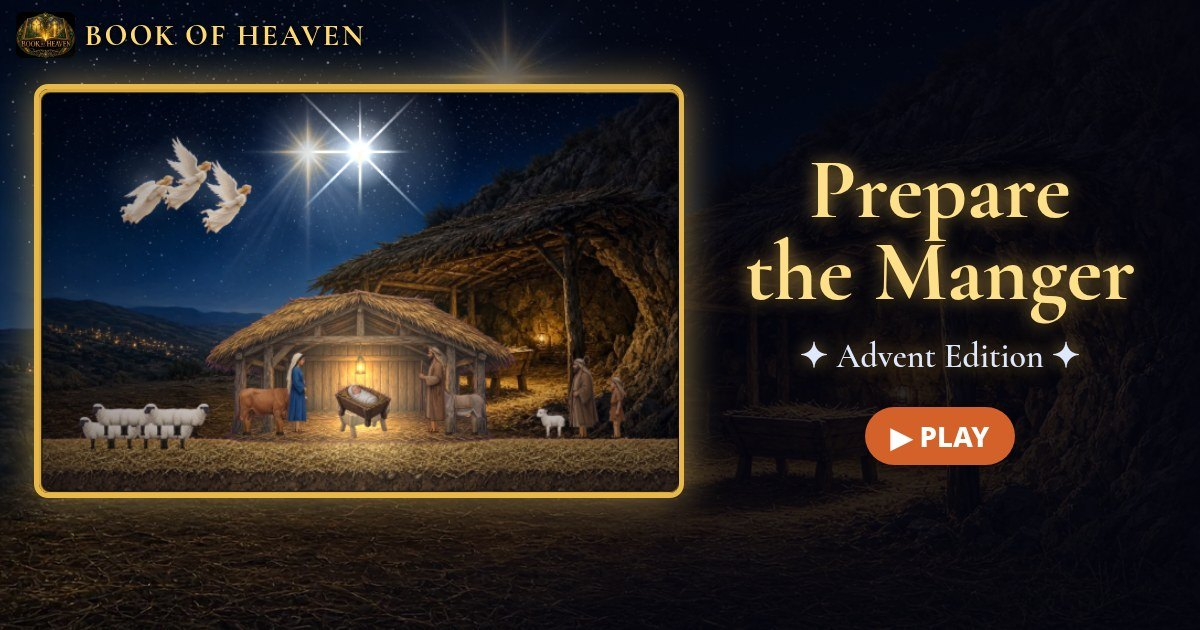
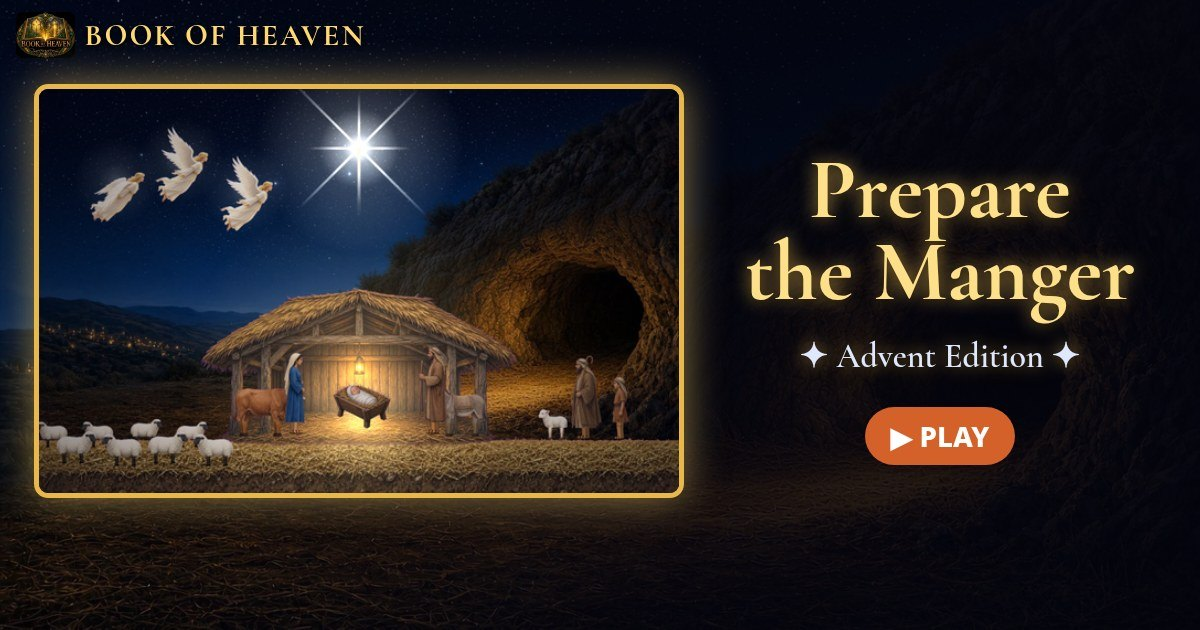
Sync with ploug76 05256a3: one manger/stable/star in the nativity art, spaced sheep + angels, companions stay on the ground, verse refs narrowed to the verse quoted; new share card; sw v46

Changed region(s): [[0.0308, 0.0302, 0.5858, 0.7841], [0.0308, 0.9048, 0.1233, 0.9651], [0.74, 0.6032, 0.7708, 0.6333]]

diff --git a/index.html b/index.html
@@ -299,20 +299,20 @@ const LEVELS=[
   outro:[{who:'angel',text:'The angel Gabriel came to Mary in Nazareth with good news: she would have a son, and his name would be JESUS.',ref:'Luke 1:26-31'},
          {who:'mary',text:'"Behold the handmaid of the Lord; be it unto me according to thy word."',ref:'Luke 1:38 (KJV)'}],
   piece:'mary',why:'Mary trusted God\'s word. God always keeps his promises.'},
- {n:2,name:"Joseph's Dream",ref:'Matthew 1:20-23 (KJV)',theme:'day',hero:'joseph',song:1,len:2700,
+ {n:2,name:"Joseph's Dream",ref:'Matthew 1:23 (KJV)',theme:'day',hero:'joseph',song:1,len:2700,
   verse:'Behold, a virgin shall be with child, and shall bring forth a son, and they shall call his name Emmanuel, which being interpreted is, God with us.',
   pre:[{who:'dream',text:'While Joseph slept, the angel of the Lord appeared to him in a dream: "Joseph, thou son of David, fear not to take unto thee Mary thy wife."',ref:'Matthew 1:20 (KJV)'}],
   how:'Joseph woke up and obeyed. Gather 6 wooden planks and his 6 carpentry tools, then press ACTION to get the house ready.',
   obj:[{id:'plank',label:'Planks',n:6},{id:'tool',label:'Tools found',n:6},{id:'ready',label:'House ready',n:3}],goalLabel:'the house',
   outro:[{who:'joseph',text:'Joseph did as the angel of the Lord told him, and took Mary as his wife.',ref:'Matthew 1:24'}],
   piece:'joseph',why:'Jesus is Emmanuel. God came to be with us.'},
- {n:3,name:'No Room',ref:'Luke 2:1-7 (KJV)',theme:'night',hero:'joseph',song:2,len:2900,
+ {n:3,name:'No Room',ref:'Luke 2:7 (KJV)',theme:'night',hero:'joseph',song:2,len:2900,
   verse:'And she brought forth her firstborn son, and wrapped him in swaddling clothes, and laid him in a manger; because there was no room for them in the inn.',
   how:'Bethlehem is full! Knock on the inn doors with ACTION. Pick up straw on the way, then fix up the stable: sweep, fill the manger and calm the animals.',
   obj:[{id:'inn',label:'Inns asked',n:3},{id:'straw',label:'Straw',n:9},{id:'sweep',label:'Swept',n:4},{id:'calm',label:'Animals calm',n:2},{id:'manger',label:'Manger filled',n:1}],goalLabel:null,
   outro:[{who:'stable',text:'There was no room in the inn, so Mary laid her baby in a manger. The King of heaven was born in a humble stable.',ref:'Luke 2:7'}],
   piece:'stable',why:'The King of all came humbly, to a manger, for everyone.'},
- {n:4,name:"Shepherds' Field",ref:'Luke 2:8-12 (KJV)',theme:'field',hero:'shepherd',song:0,len:2900,
+ {n:4,name:"Shepherds' Field",ref:'Luke 2:8 (KJV)',theme:'field',hero:'shepherd',song:0,len:2900,
   verse:'And there were in the same country shepherds abiding in the field, keeping watch over their flock by night.',
   how:'Eight sheep wandered off! Walk close to each one and it will follow you. Bring all 8 back to the fold on the left.',
   obj:[{id:'fold',label:'Sheep home',n:8}],goalLabel:null,
@@ -325,14 +325,14 @@ const LEVELS=[
   obj:[{id:'note',label:'Notes of light',n:16}],goalLabel:'the choir',
   outro:[{who:'choir',text:'"Glory to God in the highest, and on earth peace, good will toward men."',ref:'Luke 2:14 (KJV)'}],
   piece:'angels',why:'Heaven celebrates, because the Saviour has come.'},
- {n:6,name:'Go and See',ref:'Luke 2:15-20 (KJV)',theme:'night',hero:'shepherd',song:2,len:2900,
+ {n:6,name:'Go and See',ref:'Luke 2:15-16 (KJV)',theme:'night',hero:'shepherd',song:2,len:2900,
   verse:'Let us now go even unto Bethlehem, and see this thing which is come to pass, which the Lord hath made known unto us. And they came with haste.',
   how:'Hurry to Bethlehem! Press ACTION to light the 10 street lanterns on the way, then find the stable.',
   obj:[{id:'lantern',label:'Lanterns lit',n:10}],goalLabel:'the stable',
   outro:[{who:'scene',text:'They came with haste, and found Mary, and Joseph, and the babe lying in a manger.',ref:'Luke 2:16 (KJV)'},
-         {who:'shepherds',text:'"And the shepherds returned, glorifying and praising God for all the things that they had heard and seen."',ref:'Luke 2:20 (KJV)'}],
+         {who:'shepherds',text:'"And the shepherds returned, glorifying and praising God for all the things that they had heard and seen, as it was told unto them."',ref:'Luke 2:20 (KJV)'}],
   piece:'shepherds',why:'Good news is for sharing. The shepherds told everyone.'},
- {n:7,name:'The Star',ref:'Matthew 2:1-11 (KJV)',theme:'night',hero:'wise',song:0,len:1900,
+ {n:7,name:'The Star',ref:'Matthew 2:10 (KJV)',theme:'night',hero:'wise',song:0,len:1900,
   verse:'When they saw the star, they rejoiced with exceeding great joy.',
   how:'The Wise Men have come to Bethlehem. Gather the starlight on the rooftops until the star stops over the HOUSE. Then present your 3 gifts at the door.',
   obj:[{id:'spark',label:'Starlight',n:14},{id:'gift',label:'Gifts given',n:3}],goalLabel:'the house',
@@ -375,11 +375,11 @@ function build(n){const L=LEVELS[n-1],w=newWorld(L),r=mulberry(n*7919+11);
     [[485,'"Sorry, no room here!"'],[1085,'"We are full. No room!"'],[1670,'"No room in the inn... but you may use my stable."']].forEach(([x,say],i)=>spot(w,'inn',x,GY,{obj:'inn',seq:i,say}));
     [[880,GY-24],[1270,GY-26],[1660,GY-30],[1845,GY-28],[2120,GY]].forEach(([x,y])=>item(w,'straw',x,y,{obj:'straw'}));
     [2330,2390,2520,2580].forEach(x=>spot(w,'sweep',x,GY,{obj:'sweep',need:['inn']}));spot(w,'manger',2456,GY,{obj:'manger',need:['inn','straw','sweep']});
-    w.npcs.push({k:'ox',x:2360,y:GY,f:1,ph:0,x0:2300,x1:2440,sp:10,calm:false,obj:'calm'},{k:'goat',x:2560,y:GY,f:-1,ph:0,x0:2480,x1:2620,sp:12,calm:false,obj:'calm'});
+    w.npcs.push({k:'ox',x:2360,y:GY,f:1,ph:0,x0:2300,x1:2418,sp:10,calm:false,obj:'calm'},{k:'goat',x:2560,y:GY,f:-1,ph:0,x0:2480,x1:2620,sp:12,calm:false,obj:'calm'});
     w.stable={x:2460};[900,1530].forEach(x=>w.thorns.push({x}));w.followers.push({k:'donkeyMary',x:20,y:GY,f:1,ph:0,until:2250});bgTown(w,r,0,1);w.goal={x:-1}}
   if(n===4){[[520,30],[1130,34],[1720,30],[2330,32]].forEach(a=>gap(w,...a));
     [[360,22,40],[860,26,50],[945,48,36],[1450,24,46],[1530,44,40],[1980,26,44],[2060,50,40],[2580,28,50]].forEach(([x,h,wd])=>plat(w,x,GY-h,wd,'rock'));
-    w.fold={x0:12,x1:92};w.start={x:116,y:GY};
+    w.fold={x0:12,x1:140};w.start={x:164,y:GY};
     [[380,GY-22],[700,GY],[960,GY-48],[1300,GY],[1550,GY-44],[1880,GY],[2080,GY-50],[2700,GY]].forEach(([x,y],i)=>w.sheep.push({x,y,f:i%2?1:-1,ph:0,name:SHEEP_NAMES[i],st:'lost',x0:x,mv:false,bub:0,i}));
     [640,1250,1820,2460].forEach(x=>w.thorns.push({x}));w.goal={x:-1}}
   if(n===5){w.len=200;w.segs=[[0,200]];const top=GY-2300;let x=90,y=GY;for(let i=0;y>top+60;i++){y-=28+(i%3)*3;const wd=34+r()*16|0;x=clamp(x+(r()<0.5?-1:1)*(28+r()*28),8,192-wd);const p=plat(w,x,y,wd,'cloud');if(i%5===3){p.mv=1;p.x0=x;p.amp=18;p.ph=r()*6}
@@ -401,7 +401,7 @@ function build(n){const L=LEVELS[n-1],w=newWorld(L),r=mulberry(n*7919+11);
     [[300,26,40],[700,30,44],[785,52,36],[1150,26,40],[1225,46,36]].forEach(([x,h,wd])=>plat(w,x,GY-h,wd,'rock'));house(w,1700,60,30);house(w,1840,80,34);
     [[200,GY],[320,GY-26],[620,GY],[800,GY-52],[1170,GY-26],[1240,GY-46],[1660,GY],[1730,GY-30]].forEach(([x,y])=>spot(w,'candle',x,y,{obj:'candle'}));
     spot(w,'see',1460,GY,{obj:'see',need:['candle']});w.stable={x:1460};[440,900].forEach(x=>w.thorns.push({x}));
-    w.npcs.push({k:'ox',x:1430,y:GY,f:1,ph:0,x0:1420,x1:1436,sp:3},{k:'donkey',x:1495,y:GY,f:-1,ph:0,x0:1486,x1:1500,sp:3});w.goal={x:-1};bgTown(w,r,0,1)}
+    w.npcs.push({k:'ox',x:1412,y:GY,f:1,ph:0,x0:1406,x1:1416,sp:3},{k:'donkey',x:1506,y:GY,f:-1,ph:0,x0:1502,x1:1510,sp:3});/* beside Mary and Joseph, not in front of them */w.goal={x:-1};bgTown(w,r,0,1)}
   const EXT={1:[1700,'spot','lamp',5],2:[1700,'item','plank',6],3:[1500,'item','straw',4],4:[900,null,null,0],6:[1500,'spot','lantern',4],7:[2200,'item','spark',5],8:[2300,'spot','candle',4]}[n];
   if(EXT)extendLevel(w,r,L,...EXT);
   return w}
@@ -488,11 +488,13 @@ const PIECE_ORDER=['stable','mary','joseph','sheep','angels','shepherds','star',
 let SCENE=LS.get('scene',{pieces:{},sheep:[],decos:[]});
 function saveScene(){LS.set('scene',SCENE)}
 function drawPiece(id,x,y,o2={}){const ph=o2.ph||0,mv=!!o2.mv;
-  if(id==='stable'){drawStable(x,y+1,{w:118,lit:1});drawOx(x-34,y-1,1,ph,mv,{h:21});drawDonkey(x+36,y-1,-1,ph+1,mv,{h:22});if(!SCENE.pieces.baby||o2.noBaby)drawManger(x+1,y,true,false,20)}
+  if(id==='stable'){drawStable(x,y+1,{w:118,lit:1});drawOx(x-34,y-1,1,ph,mv,{h:21});drawDonkey(x+36,y-1,-1,ph+1,mv,{h:22});if(!o2.hasBaby)drawManger(x+1,y,true,false,20)}   // one manger only: the stable's empty manger is hidden once Baby Jesus (in his own manger) is in the scene
   else if(id==='mary')drawChar(x,y,x<120?1:-1,0,LOOKS.mary,{h:30});else if(id==='joseph')drawChar(x,y,x<120?1:-1,0,LOOKS.joseph,{h:32});
   else if(id==='baby')drawManger(x,y,true,true,21);
-  else if(id==='sheep'){const n=Math.max(1,(SCENE.sheep||[]).length||8);for(let i=0;i<n;i++)drawSheep(x-15+(i%4)*10+(i>3?5:0),y-(i>3?5:0),i%2?1:-1,ph+i,mv,{h:12})}
-  else if(id==='angels'){for(let i=0;i<3;i++)drawChar(x-15+i*15,y+Math.sin(t*2+i)*2-(i===1?7:0),x<120?1:-1,0,LOOKS.angel,{wph:i*1.7,fly:1,h:24})}
+  else if(id==='sheep'){const n=Math.max(1,(SCENE.sheep||[]).length||8);   // a small flock, spaced so no sheep stands on another: front row on the ground line, back row smaller + a little higher (further away), drawn first
+    const F=[[-21,5,1],[-4,6,-1],[13,5,1],[30,6,-1]],B=[[-13,-1,-1],[22,-1,1],[5,-2,1],[-30,-1,-1]],L=[];for(let i=0;i<n;i++){const q=i<4?F[i]:B[i-4];L.push([x+q[0],y+q[1],q[2],i<4?12:9.5,i])}
+    L.sort((a,b)=>a[1]-b[1]);for(const q of L)drawSheep(q[0],q[1],q[2],ph+q[4],mv,{h:q[3]})}
+  else if(id==='angels'){for(let i=0;i<3;i++)drawChar(x-24+i*24,y+Math.sin(t*2+i)*2-(i===1?9:0),x<120?1:-1,0,LOOKS.angel,{wph:i*1.7,fly:1,h:24})}   // spaced so the three angels don't overlap
   else if(id==='shepherds'){drawChar(x,y,x<120?1:-1,0,LOOKS.shepherd,{h:31});drawChar(x+13,y,x<120?1:-1,0,LOOKS.boy,{h:23});drawSheep(x-12,y,x<120?1:-1,ph,mv,{lamb:1,h:11})}
   else if(id==='star')drawStar(x,y,2.2)}
 function sceneBG(w,h){if(!paint('stable_night',0,0,w,h,0.45)){const gr=o.createLinearGradient(0,0,0,h);gr.addColorStop(0,'#070a26');gr.addColorStop(1,'#3a3468');o.fillStyle=gr;o.fillRect(0,0,w,h)}
@@ -501,7 +503,7 @@ function sceneBG(w,h){if(!paint('stable_night',0,0,w,h,0.45)){const gr=o.createL
 const SCS=4;
 function drawNativity(ctx,o2={}){withCtx(ctx,()=>{ctx.setTransform(SCS,0,0,SCS,0,0);ctx.imageSmoothingEnabled=true;ctx.imageSmoothingQuality='high';sceneBG(240,150);const P=o2.pieces||SCENE.pieces,only=o2.upto;
   const ids=Object.keys(P).filter(k=>PIECES[k]&&(!only||only.includes(k)));ids.sort((a,b)=>(a==='stable'?-1:b==='stable'?1:a==='star'?-1:b==='star'?1:P[a].y-P[b].y));
-  TINT={c:'#202a6a',a:0.16};for(const id of ids){if(o2.skip===id)continue;drawPiece(id,P[id].x,P[id].y,{ph:o2.ph,mv:o2.mv})}
+  const hasBaby=ids.includes('baby')||o2.skip==='baby';TINT={c:'#202a6a',a:0.16};for(const id of ids){if(o2.skip===id)continue;drawPiece(id,P[id].x,P[id].y,{ph:o2.ph,mv:o2.mv,hasBaby})}
   const ds=SCENE.decos||[];for(const d of ds){if(o2.decoUpto!==undefined&&d>=o2.decoUpto)continue;const x=8+d*(224/25),y=d%2?146:149;drawDeco(DECOS[d%DECOS.length],x,y)}
   if(o2.extra)o2.extra();TINT=null;
   const vg=ctx.createRadialGradient(120,80,60,120,80,160);vg.addColorStop(0,'rgba(0,0,0,0)');vg.addColorStop(1,'rgba(0,0,10,.45)');ctx.fillStyle=vg;ctx.fillRect(0,0,240,150)})}
@@ -529,7 +531,7 @@ function overSeg(x){return W.segs.some(s=>x>=s[0]-1&&x<=s[1]+1)}
 function gapAt(x){for(let i=0;i<W.segs.length-1;i++){const a=W.segs[i][1],b=W.segs[i+1][0];if(x>a-1&&x<b+1)return [a,b]}return null}
 function hurt(fx){if(H.inv>0||(window.__QA&&__QA.god))return;hearts--;H.inv=1.8;shake=4;SFX.hurt();float(H.x,H.y-30,'-1 ♥','#ff8aa0');H.kx=(H.x<fx?-1:1)*120;H.vy=-150;H.onG=false;if(hearts<=0)outOfHearts()}
 function fallReset(){if(H.inv<=0&&!(window.__QA&&__QA.god)&&W.type!=='climb'){hearts--;float(H.safe.x,H.safe.y-30,'-1 ♥','#ff8aa0')}   // no heart lost while blinking
-  H.x=H.safe.x;H.y=H.safe.y;H.vx=H.vy=H.kx=0;H.onG=true;H.inv=2;SFX.hurt();camFollow(true);ST.falls=(ST.falls||0)+1;if(hearts<=0)outOfHearts()}
+  H.x=H.safe.x;H.y=H.safe.y;H.vx=H.vy=H.kx=0;H.onG=true;H.inv=2;SFX.hurt();camFollow(true);resetTrail();ST.falls=(ST.falls||0)+1;if(hearts<=0)outOfHearts()}
 function outOfHearts(){state='retry'}
 function objToast(id){const L=Lv(),n=L.level;if(!objDone(id))return;const msgs={lamp:"All lamps lit! Go to Mary's door ▶",tool:'All tools found!',plank:'All planks gathered!',ready:'The house is ready! Go in ▶',inn:'The innkeeper offers his stable ▶',straw:'Straw gathered! Fill the manger.',
    sweep:'The stable is swept!',calm:'The animals are calm.',note:'The choir is waiting at the top! ▲',lantern:'Lanterns lit! Find the stable ▶',spark:'The star stopped over the house! ▶',gift:'Gifts given! Go in to the house ▶',candle:'Bethlehem is glowing! Go to the manger ▶'};
@@ -556,6 +558,13 @@ function findNear(){let best=null,bd=1e9;
   for(const s of W.spots){if(s.done)continue;const dx=Math.abs(s.x-H.x),dy=Math.abs(s.y-H.y);if(dx<18&&dy<26&&dx<bd){bd=dx;best=s}}
   for(const a of W.npcs){if(!a.obj||a.calm)continue;const dx=Math.abs(a.x-H.x);if(dx<22&&Math.abs(a.y-H.y)<20&&dx<bd){bd=dx;best={npc:a,x:a.x,y:a.y}}}
   return best}
+// companions (Mary's donkey, magi, camels, sheep) walk on the street: on solid ground they stand at GY, over a gap they leap in a smooth arc.
+// They never climb onto roofs/ledges and never float (Peter Nov 1: check the animation logic).
+function groundY(x){if(!W||W.type==='climb'||overSeg(x))return GY;const g=gapAt(x);if(!g)return GY;const [a,b]=g,u=clamp((x-a)/Math.max(1,b-a),0,1);return GY-Math.sin(Math.PI*u)*Math.max(14,(b-a)*0.7)}
+function resetTrail(){trail=[];for(let i=600;i>=0;i--)trail.push({x:H.x-i,y:GY});W.followers.forEach((fo,i)=>{if(fo.parked)return;const p=trailAt(followGap(i));fo.x=p.x;fo.y=groundY(fo.x)});
+  if(W.sheep)W.sheep.filter(q=>q.st==='follow').sort((a,b)=>a.fo-b.fo).forEach((q,k)=>{const p=trailAt((k+1)*17);q.x=p.x;q.y=groundY(q.x)})}
+function foldX(i){return W.fold.x0+9+i*16}   // 8 spots, one sheep-width apart
+function followGap(i){return W.followers.slice(0,i+1).reduce((a,q)=>a+(q.k==='magus'?17:q.k==='camel'?30:24)*(q.k==='donkeyMary'?1:clamp(VW/280,0.52,1)),0)}
 function trailAt(back){const i=Math.max(0,trail.length-1-Math.round(back));return trail[i]}
 // ---------- main update
 function update(dt){t+=dt;if(toastT>0)toastT-=dt;if(shake>0)shake=Math.max(0,shake-dt*20);updParts(dt);
@@ -585,8 +594,8 @@ function update(dt){t+=dt;if(toastT>0)toastT-=dt;if(shake>0)shake=Math.max(0,sha
   // thorns
   for(const th of W.thorns)if(Math.abs(H.x-th.x)<7&&H.y>GY-9&&H.y<=GY+2)hurt(th.x);
   if(state!=='play')return;
-  // trail for followers
-  const lt=trail[trail.length-1],d=Math.hypot(H.x-lt.x,H.y-lt.y);if(d>48){const dx=H.x-lt.x,dy=H.y-lt.y;trail=trail.map(q=>({x:q.x+dx,y:Math.min(GY,q.y+dy)}));W.followers.forEach(fo=>{if(!fo.parked){fo.x+=dx;fo.y=Math.min(GY,fo.y+dy)}})}else if(d>=1){const n=Math.floor(d);for(let i=1;i<=n;i++)trail.push({x:lerp(lt.x,H.x,i/n),y:lerp(lt.y,H.y,i/n)});if(trail.length>900)trail.splice(0,trail.length-900)}
+  // trail for followers (horizontal distance only, so jumping in place doesn't pull companions onto the hero)
+  const lt=trail[trail.length-1],d=Math.abs(H.x-lt.x);if(d>48){resetTrail()}else if(d>=1){const n=Math.floor(d);for(let i=1;i<=n;i++)trail.push({x:lerp(lt.x,H.x,i/n),y:GY});if(trail.length>900)trail.splice(0,trail.length-900)}
   // items
   for(const k of W.items){if(k.got)continue;if(Math.abs(k.x-H.x)<10&&Math.abs(k.y-(H.y-8))<16){k.got=true;ST[k.obj]=(ST[k.obj]||0)+1;SFX.pick();part(k.x,k.y-4,12,['#ffe08a','#fff'],{sp:30,add:true});
     if(level===2)readyHint();float(k.x,k.y-16,k.k==='tool'?k.tool[0].toUpperCase()+k.tool.slice(1)+'!':k.k==='straw'?'Straw!':k.k==='plank'?'Plank!':k.k==='note'?'♪':'✦');objToast(k.obj)}}
@@ -596,12 +605,12 @@ function update(dt){t+=dt;if(toastT>0)toastT-=dt;if(shake>0)shake=Math.max(0,sha
     for(const s of W.sheep){s.ph+=dt*10;const ox=s.x;
       if(s.st==='lost'){s.wt=(s.wt||0)-dt;if(s.wt<=0){s.wt=rnd(1.5,3.5);s.walk=Math.random()<0.55;if(s.walk)s.f=s.x>s.x0+14?-1:s.x<s.x0-14?1:pick([1,-1])}if(s.walk)s.x+=s.f*7*dt;
         if(Math.abs(H.x-s.x)<20&&Math.abs(H.y-s.y)<16){s.st='follow';s.fo=performance.now()+Math.random();SFX.bleat();float(s.x,s.y-20,s.name+' follows you!','#ffffff');bubble(s,'Baa!',1.2)}}
-      else if(s.st==='follow'){const k=fol.indexOf(s);if(home){const tx=W.fold.x0+10+((ST.fold+k)%8)*8;s.x=lerp(s.x,tx,Math.min(1,dt*2.5));s.y=lerp(s.y,GY,Math.min(1,dt*6));if(s.x<W.fold.x1-4){s.st='home';ST.fold++;SFX.bleat();float(s.x,s.y-20,s.name+' is home!','#bdf3ff');objToast('fold')}}
-        else{const p=trailAt((k+1)*15);s.x=lerp(s.x,p.x,Math.min(1,dt*7));s.y=lerp(s.y,p.y,Math.min(1,dt*9))}}
-      else{s.wt=(s.wt||0)-dt;if(s.wt<=0){s.wt=rnd(1.5,4);s.walk=Math.random()<0.5;s.f=pick([1,-1])}if(s.walk){s.x+=s.f*5*dt;if(s.x<W.fold.x0+5){s.x=W.fold.x0+5;s.f=1}if(s.x>W.fold.x1-6){s.x=W.fold.x1-6;s.f=-1}}s.y=GY}
-      const dx=s.x-ox;s.mv=Math.abs(dx)>0.02;if(Math.abs(dx)>0.05)s.f=dx>0?1:-1}}
+      else if(s.st==='follow'){const k=fol.indexOf(s);if(home){const tx=foldX(Math.min(7,ST.fold+k));s.x=lerp(s.x,tx,Math.min(1,dt*2.5));s.y=groundY(s.x);if(s.x<W.fold.x1-4){s.st='home';const used=W.sheep.filter(q=>q.st==='home'&&q!==s).map(q=>q.slot);let bs=0,bd=1e9;for(let j2=0;j2<8;j2++)if(!used.includes(j2)&&Math.abs(foldX(j2)-s.x)<bd){bd=Math.abs(foldX(j2)-s.x);bs=j2}s.slot=bs;ST.fold++;SFX.bleat();float(s.x,s.y-20,s.name+' is home!','#bdf3ff');objToast('fold')}}
+        else{const p=trailAt((k+1)*17);s.x=lerp(s.x,p.x,Math.min(1,dt*7));s.y=groundY(s.x)}}
+      else{s.x=lerp(s.x,foldX(s.slot||0),Math.min(1,dt*2.5));s.y=GY;s.wt=(s.wt||0)-dt;if(s.wt<=0){s.wt=rnd(2,5);s.face=pick([1,-1])}}   // home: each sheep keeps its own spot in the fold and just turns now and then (no walking through each other)
+      const dx=s.x-ox;s.mv=Math.abs(dx)>0.02;if(Math.abs(dx)>0.05)s.f=dx>0?1:-1;else if(s.st==='home'&&s.face)s.f=s.face}}
   // followers (Mary on the donkey, the camels)
-  W.followers.forEach((fo,i)=>{const ox=fo.x;if(fo.until&&H.x>fo.until)fo.parked=true;if(!fo.parked){const p=trailAt(W.followers.slice(0,i+1).reduce((a,q)=>a+(q.k==='magus'?17:q.k==='camel'?30:24)*(q.k==='donkeyMary'?1:clamp(VW/280,0.52,1)),0));fo.x=lerp(fo.x,p.x,Math.min(1,dt*7));fo.y=lerp(fo.y,Math.min(GY,p.y),Math.min(1,dt*9))}
+  W.followers.forEach((fo,i)=>{const ox=fo.x;if(fo.until&&H.x>fo.until)fo.parked=true;if(!fo.parked){const p=trailAt(followGap(i));fo.x=lerp(fo.x,p.x,Math.min(1,dt*7));fo.y=groundY(fo.x)}
     const dx=fo.x-ox;fo.mv=Math.abs(dx)>0.02;if(Math.abs(dx)>0.05)fo.f=dx>0?1:-1;if(fo.mv)fo.ph+=dt*9});
   // npcs walk (animals and villagers)
   for(const a of W.npcs){const ox=a.x;if(!a.calm){a.wt=(a.wt||0)-dt;if(a.wt<=0){a.wt=rnd(1,3);a.walk=Math.random()<0.7}if(a.walk){a.x+=a.f*a.sp*dt;if(a.x>a.x1){a.x=a.x1;a.f=-1}if(a.x<a.x0){a.x=a.x0;a.f=1}}}else a.f=H.x<a.x?-1:1;
@@ -813,7 +822,7 @@ function sceneArea(top,bottomPad){const land=LY.land;const aw=CW-24-SAFE.l-SAFE.
 function drawDecorate(){const land=LY.land,id=DEC.id,P=PIECES[id];menuBG();
   const head=wrap('You earned '+P.name+'! Drag it anywhere in your nativity, then tap Place it.',Math.min(CW-30,700),18);head.forEach((l,i)=>txt(l,CW/2,SAFE.t+22+i*24,18,'#ffe14a'));
   const top=SAFE.t+22+head.length*24;const R=sceneArea(top,70);DEC.rect=R;
-  drawNativity(sceneCtx,{ph:t*3,skip:id,extra:()=>{glow(DEC.x,DEC.y-8,26+4*Math.sin(t*4),'255,250,200',0.5);drawPiece(id,DEC.x,DEC.y,{ph:t*3,mv:false})}});
+  drawNativity(sceneCtx,{ph:t*3,skip:id,extra:()=>{glow(DEC.x,DEC.y-8,26+4*Math.sin(t*4),'255,250,200',0.5);drawPiece(id,DEC.x,DEC.y,{ph:t*3,mv:false,hasBaby:!!SCENE.pieces.baby})}});
   blit(sceneCv,R.x,R.y,R.w,R.h);frame2(R);
   const bw=Math.min(300,CW-40);button('place',(CW-bw)/2,CH-SAFE.b-60,bw,52,'Place it ✓','#2f9f4f',()=>{SCENE.pieces[id]={x:Math.round(DEC.x),y:Math.round(DEC.y)};saveScene();SFX.place();state='why'},22);menuBtns[menuBtns.length-1].primary=1}
 function drawWhy(){const L=Lv(),land=LY.land;menuBG();drawNativity(sceneCtx,{ph:t*3});const R=sceneArea(SAFE.t+12,land?190:300);blit(sceneCv,R.x,R.y,R.w,R.h);frame2(R);
@@ -837,7 +846,7 @@ function drawReplay(){g.fillStyle='#000';g.fillRect(0,0,CW,CH);const ids=PIECE_O
   const upto=ids.filter((k,i)=>T>0.8+i*(6.4/n));const R=sceneArea(SAFE.t+12,80);
   drawNativity(sceneCtx,{ph:t*3,mv:true,upto,decoUpto:T>7.4?99:-1,extra:()=>{const i=upto.length-1;if(i>=0){const p=SCENE.pieces[ids[i]],k=T-(0.8+i*(6.4/n));if(k<0.8)glow(p.x,p.y-10,40*(1-k),'255,250,220',0.8)}}});
   const fade=clamp(T/0.8,0,1);g.globalAlpha=fade;blit(sceneCv,R.x,R.y,R.w,R.h);g.globalAlpha=1;
-  if(T>8.2){g.globalAlpha=clamp((T-8.2)/0.6,0,1);txt('My Nativity',CW/2,R.y+R.h*0.18,fitSize('My Nativity',R.w,40),'#ffe14a','center',{lw:6,st:'#3a2208'});txt('"Unto you is born this day... a Saviour" Luke 2:11',CW/2,R.y+R.h*0.18+40,fitSize('"Unto you is born this day... a Saviour" Luke 2:11',R.w-20,18),'#fff');g.globalAlpha=1}
+  if(T>8.2){g.globalAlpha=clamp((T-8.2)/0.6,0,1);txt('My Nativity',CW/2,R.y+R.h*0.18,fitSize('My Nativity',R.w,40),'#ffe14a','center',{lw:6,st:'#3a2208'});txt('"Unto you is born this day... a Saviour" Luke 2:11 (KJV)',CW/2,R.y+R.h*0.18+40,fitSize('"Unto you is born this day... a Saviour" Luke 2:11 (KJV)',R.w-20,18),'#fff');g.globalAlpha=1}
   g.fillStyle='#ffcf4a';g.fillRect(R.x,R.y+R.h+8,R.w*clamp(T/10,0,1),4);
   button('skipr',CW-SAFE.r-120,CH-SAFE.b-58,108,48,'Skip ⏭','#4a4a6a',()=>{state='scene'},18);if(T>=10)state='scene'}
 function adventDay(){const now=window.__QA&&__QA.date?new Date(__QA.date):new Date();let Y=now.getFullYear();if(now.getMonth()<6)Y--;for(let i=25;i>=0;i--){if(now>=new Date(Y,10,29+i))return i+1}return 0}
@@ -987,7 +996,7 @@ if(window.__QA){
     if(A.tgtT>14&&tg.o&&typeof tg.o==='object'){H.x=tg.x;H.y=tg.y;H.vy=0;A.assists++;A.tgtT=0}}
 }
 
-window.__VERSION=37;
+window.__VERSION=45;
 </script><!--lockboh--><style>#smpLock{position:fixed;inset:0;z-index:75;display:none;align-items:center;justify-content:center;background:rgba(8,6,24,.86);padding:calc(12px + env(safe-area-inset-top)) calc(12px + env(safe-area-inset-right)) calc(12px + env(safe-area-inset-bottom)) calc(12px + env(safe-area-inset-left));box-sizing:border-box;touch-action:manipulation}
 #smpLock.on{display:flex}#smpLock .c{box-sizing:border-box;width:min(340px,100%);max-height:100%;overflow:auto;background:#1b1340;color:#fff;border:3px solid #fff;border-radius:16px;box-shadow:0 0 0 4px #ffcc2e,0 10px 30px rgba(0,0,0,.6);padding:16px 14px 14px;text-align:center;font:16px/1.35 system-ui,-apple-system,Segoe UI,sans-serif}
 #smpLock h2{margin:0 0 6px;font-size:23px;color:#ffe14a}#smpLock p{margin:6px 0 10px;font-size:16px}#smpLock .k{font-size:40px;line-height:1}

diff --git a/sw.js b/sw.js
@@ -1,4 +1,4 @@
-const P='prepare-the-manger-',V=P+'v38',FILES=['./','index.html','manifest.json','icon-192.png','icon-512.png','art/spr/angel_down.webp','art/spr/angel_stand.webp','art/spr/angel_stand_body.webp','art/spr/angel_up.webp','art/spr/angel_walk.webp','art/spr/b_house.webp','art/spr/b_inn.webp','art/spr/boy_stand.webp','art/spr/boy_stand_body.webp','art/spr/boy_walk.webp','art/spr/camel1.webp','art/spr/camel1_body.webp','art/spr/camel1_leg0s.webp','art/spr/camel1_leg0t.webp','art/spr/camel1_leg1s.webp','art/spr/camel1_leg1t.webp','art/spr/camel1_leg2s.webp','art/spr/camel1_leg2t.webp','art/spr/camel1_leg3s.webp','art/spr/camel1_leg3t.webp','art/spr/camel1_rig.webp','art/spr/camel2.webp','art/spr/camel2_body.webp','art/spr/camel2_leg0s.webp','art/spr/camel2_leg0t.webp','art/spr/camel2_leg1s.webp','art/spr/camel2_leg1t.webp','art/spr/camel2_leg2s.webp','art/spr/camel2_leg2t.webp','art/spr/camel2_leg3s.webp','art/spr/camel2_leg3t.webp','art/spr/camel2_rig.webp','art/spr/candle.webp','art/spr/candle_off.webp','art/spr/chest.webp','art/spr/chisel.webp','art/spr/donkey.webp','art/spr/donkey_body.webp','art/spr/dove0.webp','art/spr/dove1.webp','art/spr/dove2.webp','art/spr/fold.webp','art/spr/frank.webp','art/spr/goat_body.webp','art/spr/h_door.webp','art/spr/h_humble.webp','art/spr/h_inn.webp','art/spr/h_win.webp','art/spr/hammer.webp','art/spr/joseph_stand.webp','art/spr/joseph_stand2.webp','art/spr/joseph_stand_body.webp','art/spr/joseph_walk.webp','art/spr/lamb.webp','art/spr/lamb_body.webp','art/spr/lamp.webp','art/spr/lamp_off.webp','art/spr/lantern.webp','art/spr/lantern_off.webp','art/spr/magus1.webp','art/spr/magus1_body.webp','art/spr/magus2.webp','art/spr/magus2_body.webp','art/spr/magus3.webp','art/spr/magus3_body.webp','art/spr/mallet.webp','art/spr/manger.webp','art/spr/manger_baby.webp','art/spr/mary_ride.webp','art/spr/mary_ride_body.webp','art/spr/mary_stand.webp','art/spr/mary_stand_body.webp','art/spr/mary_walk.webp','art/spr/myrrh.webp','art/spr/ox.webp','art/spr/ox_body.webp','art/spr/p_awning.webp','art/spr/p_cloud.webp','art/spr/p_lumber.webp','art/spr/p_rock.webp','art/spr/p_stone.webp','art/spr/plane.webp','art/spr/plank.webp','art/spr/saw.webp','art/spr/sheep.webp','art/spr/sheep_body.webp','art/spr/shep_stand.webp','art/spr/shep_stand_body.webp','art/spr/shep_walk.webp','art/spr/square.webp','art/spr/stable.webp','art/spr/stall.webp','art/spr/straw.webp','art/spr/thorn.webp','art/bg/bethlehem_star.webp','art/bg/g_cobble.webp','art/bg/g_dirt.webp','art/bg/g_grass.webp','art/bg/g_straw.webp','art/bg/g_water.webp','art/bg/hills_star.webp','art/bg/inn_street.webp','art/bg/nazareth_day.webp','art/bg/nazareth_dusk.webp','art/bg/nazareth_morning.webp','art/bg/road.webp','art/bg/sky_angels.webp','art/bg/stable_night.webp','art/bg/story_dream.webp'];
+const P='prepare-the-manger-',V=P+'v46',FILES=['./','index.html','manifest.json','icon-192.png','icon-512.png','art/spr/angel_down.webp','art/spr/angel_stand.webp','art/spr/angel_stand_body.webp','art/spr/angel_up.webp','art/spr/angel_walk.webp','art/spr/b_house.webp','art/spr/b_inn.webp','art/spr/boy_stand.webp','art/spr/boy_stand_body.webp','art/spr/boy_walk.webp','art/spr/camel1.webp','art/spr/camel1_body.webp','art/spr/camel1_leg0s.webp','art/spr/camel1_leg0t.webp','art/spr/camel1_leg1s.webp','art/spr/camel1_leg1t.webp','art/spr/camel1_leg2s.webp','art/spr/camel1_leg2t.webp','art/spr/camel1_leg3s.webp','art/spr/camel1_leg3t.webp','art/spr/camel1_rig.webp','art/spr/camel2.webp','art/spr/camel2_body.webp','art/spr/camel2_leg0s.webp','art/spr/camel2_leg0t.webp','art/spr/camel2_leg1s.webp','art/spr/camel2_leg1t.webp','art/spr/camel2_leg2s.webp','art/spr/camel2_leg2t.webp','art/spr/camel2_leg3s.webp','art/spr/camel2_leg3t.webp','art/spr/camel2_rig.webp','art/spr/candle.webp','art/spr/candle_off.webp','art/spr/chest.webp','art/spr/chisel.webp','art/spr/donkey.webp','art/spr/donkey_body.webp','art/spr/dove0.webp','art/spr/dove1.webp','art/spr/dove2.webp','art/spr/fold.webp','art/spr/frank.webp','art/spr/goat_body.webp','art/spr/h_door.webp','art/spr/h_humble.webp','art/spr/h_inn.webp','art/spr/h_win.webp','art/spr/hammer.webp','art/spr/joseph_stand.webp','art/spr/joseph_stand2.webp','art/spr/joseph_stand_body.webp','art/spr/joseph_walk.webp','art/spr/lamb.webp','art/spr/lamb_body.webp','art/spr/lamp.webp','art/spr/lamp_off.webp','art/spr/lantern.webp','art/spr/lantern_off.webp','art/spr/magus1.webp','art/spr/magus1_body.webp','art/spr/magus2.webp','art/spr/magus2_body.webp','art/spr/magus3.webp','art/spr/magus3_body.webp','art/spr/mallet.webp','art/spr/manger.webp','art/spr/manger_baby.webp','art/spr/mary_ride.webp','art/spr/mary_ride_body.webp','art/spr/mary_stand.webp','art/spr/mary_stand_body.webp','art/spr/mary_walk.webp','art/spr/myrrh.webp','art/spr/ox.webp','art/spr/ox_body.webp','art/spr/p_awning.webp','art/spr/p_cloud.webp','art/spr/p_lumber.webp','art/spr/p_rock.webp','art/spr/p_stone.webp','art/spr/plane.webp','art/spr/plank.webp','art/spr/saw.webp','art/spr/sheep.webp','art/spr/sheep_body.webp','art/spr/shep_stand.webp','art/spr/shep_stand_body.webp','art/spr/shep_walk.webp','art/spr/square.webp','art/spr/stable.webp','art/spr/stall.webp','art/spr/straw.webp','art/spr/thorn.webp','art/bg/bethlehem_star.webp','art/bg/g_cobble.webp','art/bg/g_dirt.webp','art/bg/g_grass.webp','art/bg/g_straw.webp','art/bg/g_water.webp','art/bg/hills_star.webp','art/bg/inn_street.webp','art/bg/nazareth_day.webp','art/bg/nazareth_dusk.webp','art/bg/nazareth_morning.webp','art/bg/road.webp','art/bg/sky_angels.webp','art/bg/stable_night.webp','art/bg/story_dream.webp'];
 self.addEventListener('install',e=>{e.waitUntil(caches.open(V).then(c=>c.addAll(FILES)));self.skipWaiting()});
 self.addEventListener('activate',e=>{e.waitUntil(caches.keys().then(k=>Promise.all(k.filter(n=>n!=V&&n.startsWith(P)).map(n=>caches.delete(n)))).then(()=>self.clients.claim()))});
 self.addEventListener('fetch',e=>{if(e.request.method!='GET')return;e.respondWith(fetch(e.request).then(r=>{if(r.ok){const cp=r.clone();caches.open(V).then(c=>c.put(e.request,cp))}return r}).catch(()=>caches.open(V).then(c=>c.match(e.request,{ignoreSearch:true}).then(r=>r||(e.request.mode=='navigate'?c.match('./'):undefined)))))});
